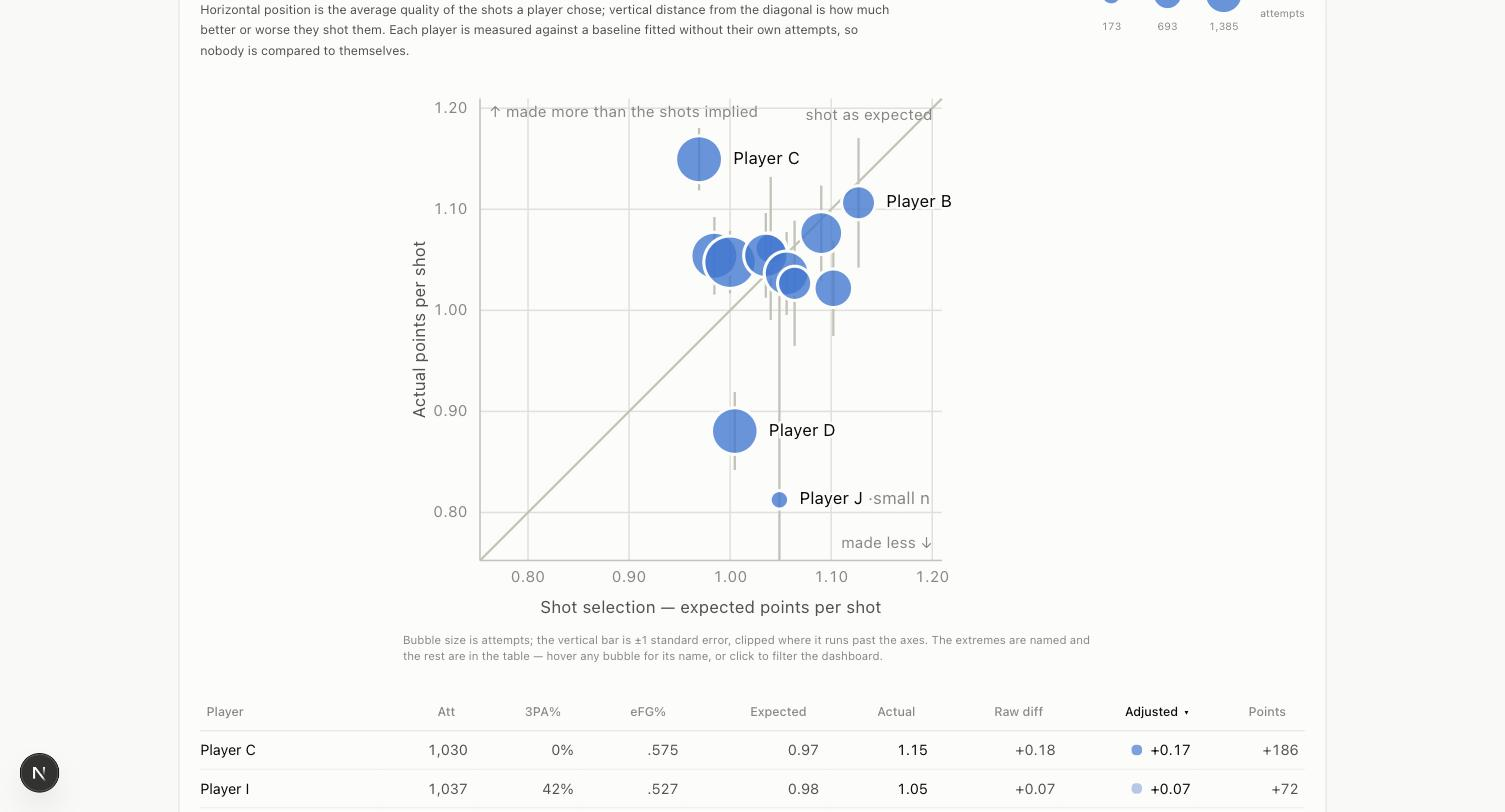
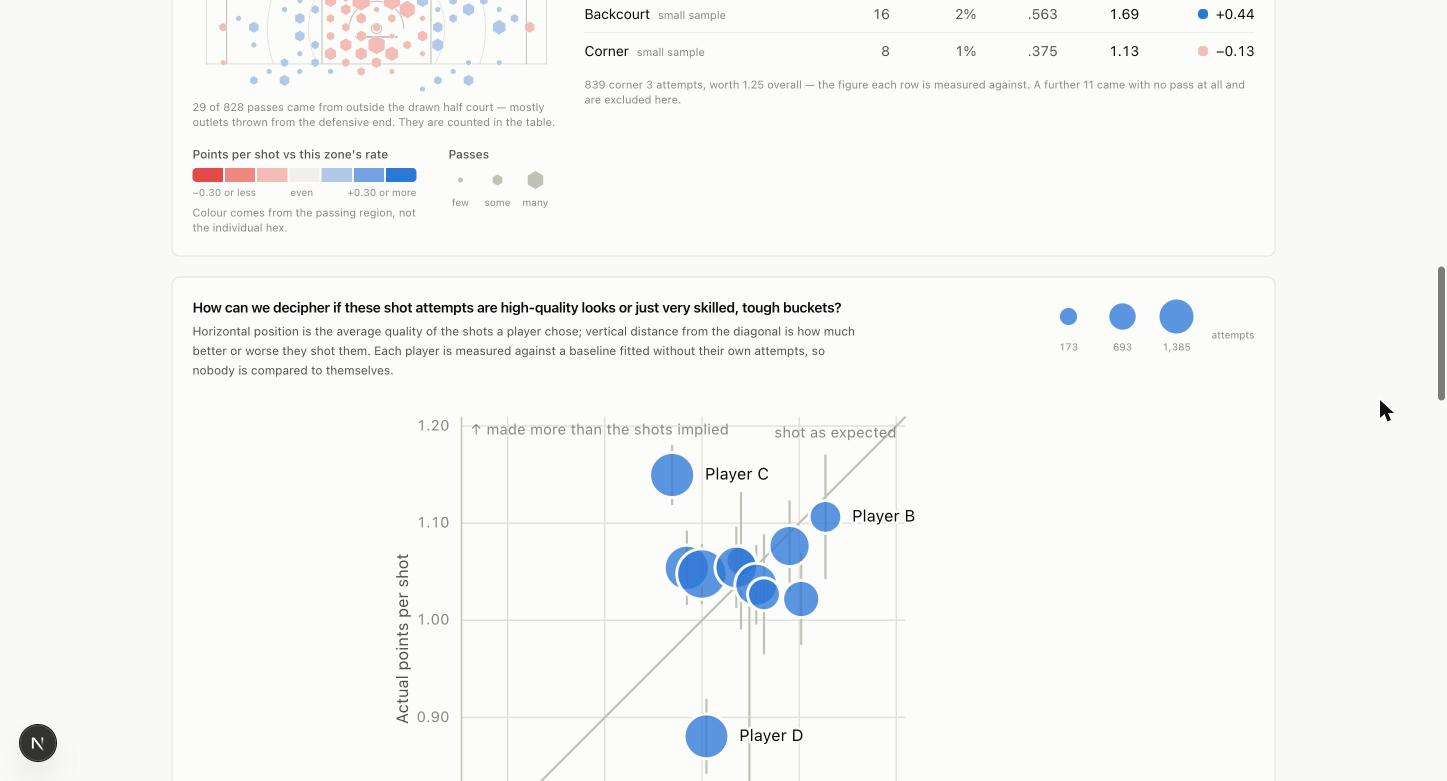
Retitle the selection-versus-making card
"How can we decipher if these shot attempts are high-quality looks or just
very skilled, tough buckets?", replacing "Good shots, or shots made well?".
Applied to the README heading and the card's screenshot.

Two small edits to the supplied wording: "How can we" rather than "How we
can", since the line is punctuated as a question; and "high-quality" as a
hyphenated compound adjective.

diff --git a/src/components/dashboard.tsx b/src/components/dashboard.tsx
@@ -321,7 +321,7 @@ function DashboardContent({ dataset }: { dataset: ShotDataset }) {
 
           <ViewErrorBoundary name="Selection vs making">
             <Card
-              title="Good shots, or shots made well?"
+              title="How can we decipher if these shot attempts are high-quality looks or just very skilled, tough buckets?"
               description={
                 <>
                   Horizontal position is the average quality of the shots a player

diff --git a/README.md b/README.md
@@ -71,7 +71,7 @@ Measured on this dataset, at a 3 ft hex radius:
 The bottom row is an ordinary UI state. Four trustworthy cells out of sixty-one is
 not a chart.
 
-### 2. Good shots, or shots made well?
+### 2. How can we decipher if these shot attempts are high-quality looks or just very skilled, tough buckets?
 
 ![Selection vs making](docs/screenshots/03-selection-vs-making.jpg)
 
